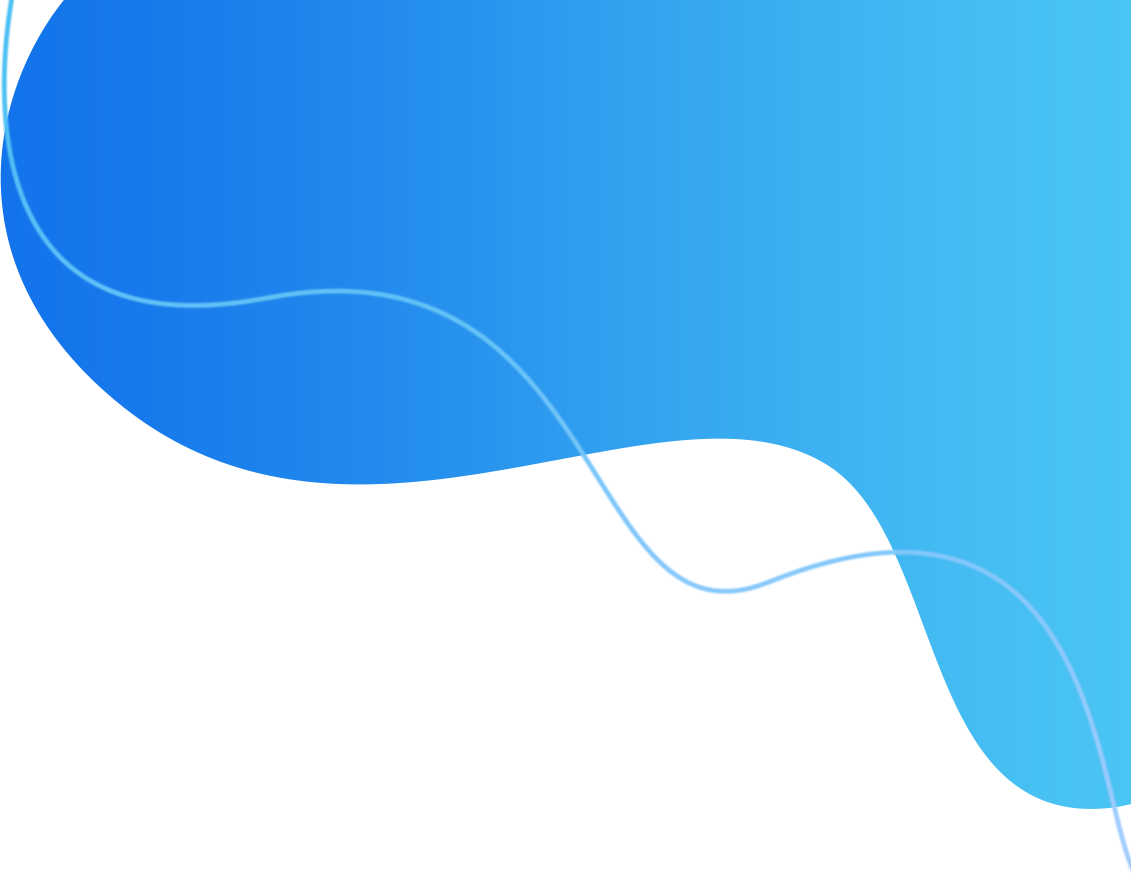
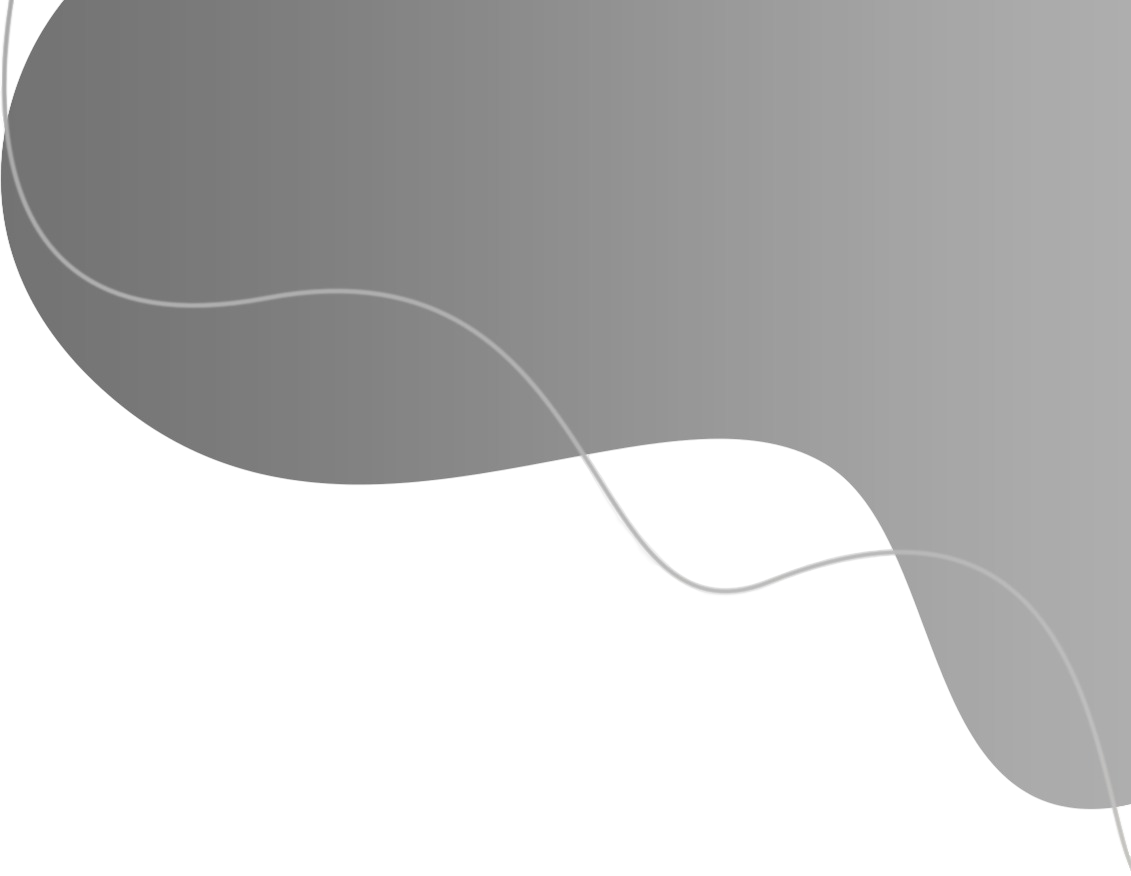
feat: update button styles and colors, add custom button, and remove unused route

diff --git a/public/web_assets/css/style.css b/public/web_assets/css/style.css
@@ -3138,10 +3138,10 @@ body,
 
 .services-area .services-heading h4 {
 	text-transform: uppercase;
-	color: #1273eb;
+	color: #ED1C24;
 	font-weight: 600;
 	display: inline-block;
-	background: linear-gradient(90deg, rgba(18, 115, 235, 1) 30%, rgba(4, 215, 242, 1) 100%);
+	background: linear-gradient(90deg, #ED1C24 0%, rgb(171 57 167) 100%);
 	-webkit-background-clip: text;
 	-moz-background-clip: text;
 	background-clip: text;
@@ -3210,8 +3210,8 @@ body,
 	font-size: 50px;
 	margin-bottom: 30px;
 	margin-top: 25px;
-	color: #1273eb;
-	background: linear-gradient(to right, #1273eb, #1273eb, #1273eb, #9a009c, #9a009c);
+	color: #707070;
+	background: linear-gradient(to right, #707070, #707070, #707070, #707070, #707070);
 	-webkit-background-clip: text;
 	-moz-background-clip: text;
 	background-clip: text;
@@ -3226,7 +3226,7 @@ body,
 	content: "";
 	height: 80px;
 	width: 81px;
-	background: linear-gradient(-62.5deg, transparent, rgba(237, 245, 255, 0.9));
+	background: linear-gradient(-62.5deg, transparent, rgba(90, 90, 90, 0.09));
 	z-index: -1;
 	border-radius: 50%;
 	transform: rotate(65deg);
@@ -4288,7 +4288,7 @@ body,
 }
 
 .team-single-area .right-info ul li a:hover {
-	color: #1273eb;
+	color: #ED1C24;
 }
 
 .team-single-area .right-info .social {
@@ -6851,8 +6851,8 @@ ul.pagination {
 	width: 70px;
 	text-align: center;
 	line-height: 70px;
-	background: rgba(18, 115, 235, 0.1);
-	color: rgba(18, 115, 235, 1);
+	background: rgba(90, 90, 90, 0.1);
+	color: rgba(90, 90, 90, 1);
 	border-radius: 8px;
 	margin-right: 20px;
 }
@@ -8482,6 +8482,67 @@ nav.navbar.bootsnav {
 	text-shadow: -5px 5px 0px #eceefe;
 }
 
+
+/*============================================
+custom button css
+============================================*/
+.custom-torch-btn {
+	position: relative;
+	display: inline-block;
+	padding: 12px 30px;
+	font-size: 16px;
+	font-weight: bold;
+	color: #ffffff;
+	/* initial text color */
+	background: #ED1C24;
+	/* initial background */
+	border: 2px solid #ED1C24;
+	/* border */
+	overflow: hidden;
+	cursor: pointer;
+	transition: color 0.35s ease, border-color 0.35s ease;
+	border-radius: 5px;
+	/* optional rounded corners */
+}
+
+/* The animated pseudo-element */
+.custom-torch-btn::before {
+	content: "";
+	position: absolute;
+	top: 0;
+	left: -100%;
+	/* start offscreen left */
+	width: 200%;
+	/* enough width to slide fully */
+	height: 100%;
+	background: #ffffff;
+	/* hover background color */
+	z-index: 0;
+	transition: left 0.35s ease-in-out;
+}
+
+/* Keep the text above the pseudo-element */
+.custom-torch-btn span {
+	position: relative;
+	z-index: 1;
+	transition: color 0.35s ease;
+}
+
+/* Hover effect */
+.custom-torch-btn:hover::before {
+	left: 0;
+	/* slide the white background fully */
+}
+
+.custom-torch-btn:hover span {
+	color: #ED1C24;
+	/* text becomes red */
+}
+
+.custom-torch-btn:hover {
+	border-color: #ED1C24;
+	/* optional: keep border red */
+}
 
 
 /* ============================================================== 

diff --git a/resources/views/web/who_we_are/team-single.blade.php b/resources/views/web/who_we_are/team-single.blade.php
@@ -5,7 +5,7 @@
 @section('content')
 
     <!-- Start Breadcrumb 
-        ============================================= -->
+            ============================================= -->
     <div class="breadcrumb-area text-center shadow dark text-light bg-cover"
         style="background-image: url({{ asset('web_assets/img/2440x1578.png') }});">
         <div class="container">
@@ -23,7 +23,7 @@
     <!-- End Breadcrumb -->
 
     <!-- Start Team Single Area
-        ============================================= -->
+            ============================================= -->
     <div class="team-single-area default-padding">
         <div class="container">
             <div class="team-content-top">
@@ -53,7 +53,7 @@
                             </li>
                         </ul>
                         <div class="social">
-                            <a class="btn btn-theme effect btn-sm" href="#">Contact me</a>
+                            <a class="btn custom-torch-btn btn-sm" href="#">Contact me</a>
                             <div class="share-link">
                                 <i class="fas fa-share-alt"></i>
                                 <ul>

diff --git a/routes/web.php b/routes/web.php
@@ -37,10 +37,6 @@ Route::get('journey', function () {
     return view('web.who_we_are.journey')->with('innerHeader', true);
 })->name('journey');
 
-Route::get('strategy/values', function () {
-    return view('web.who_we_are.strategy-values')->with('innerHeader', true);
-})->name('strategy-values');
-
 Route::get('contact/us', function () {
     return view('web.contact')->with('innerHeader', true);
 })->name('contact');
